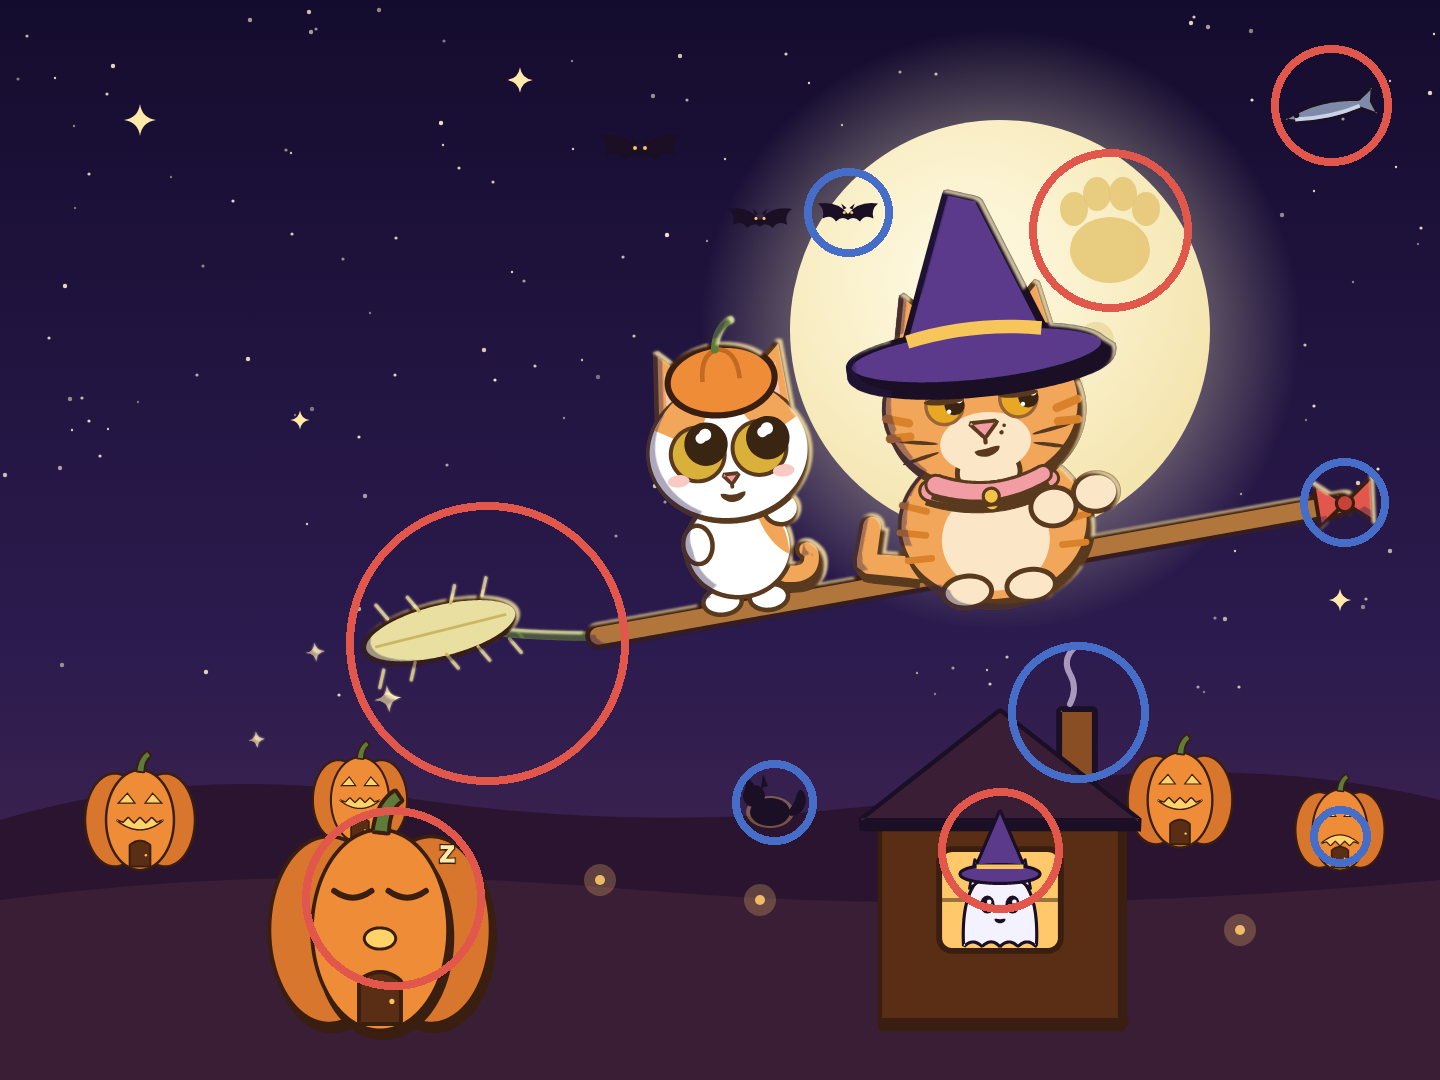
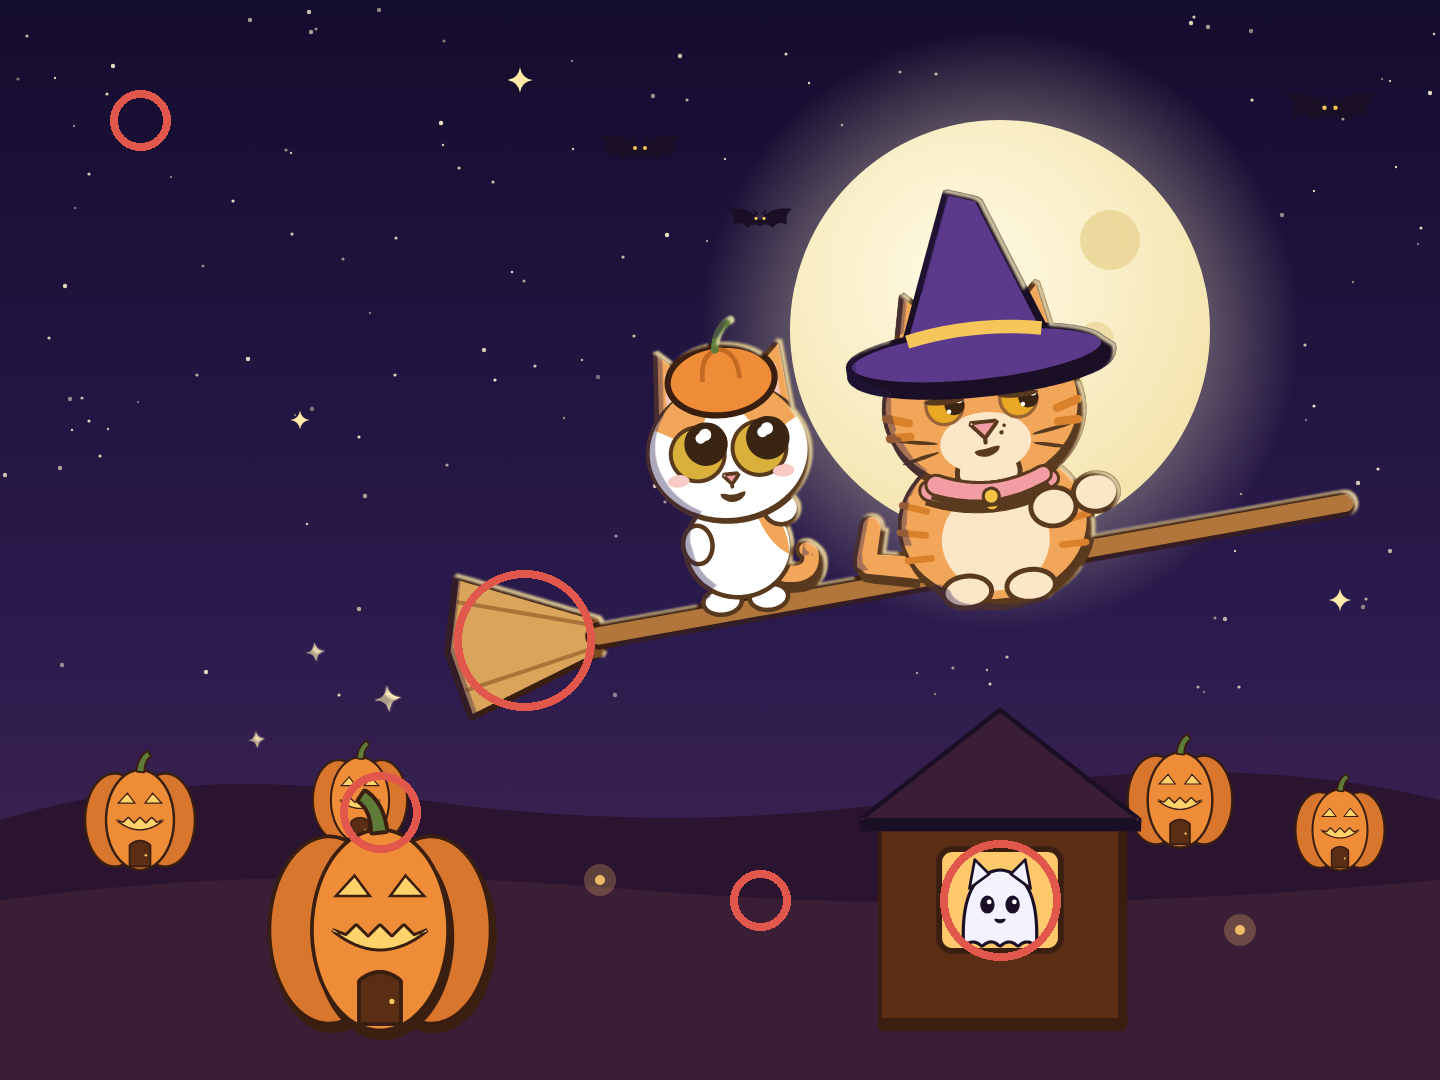
間違い探し：むずかしいモードは0/5からの別の問題・違いをむずかしく

diff --git a/machigai/index.html b/machigai/index.html
@@ -83,7 +83,7 @@ body.finished{overflow:auto!important}.finished .wrap{height:auto!important;min-
 <section class="selection" aria-label="問題を選ぶ"><label for="problemSelect">きょうの問題</label><select id="problemSelect"></select></section>
 <div class="scorebar"><div class="meter" id="clockBox"><small>のこりじかん</small><strong id="clock">60<em>秒</em></strong></div><div class="meter"><small>みつけた！</small><strong id="foundCount">0<em>/ 5</em></strong></div><button class="sound" id="soundToggle" type="button" aria-pressed="true">音：オン</button></div>
 <section class="intro" id="intro"><div><h2 id="introTitle">ちがいを見つけよう</h2><p id="introTime"></p><p>どちらの絵をタップしても大丈夫。<br>まちがえても、点数はへらないよ。<br>二本指で、絵を大きくできるよ。</p><p class="inapp-note" id="inappNote" hidden>アプリの中だと絵が小さくなります。右上の「…」から「ブラウザで開く」にすると、大きく遊べるよ。</p><label class="time-choice"><input id="untimedChoice" type="checkbox">時間を気にせず遊ぶ</label></div><button type="button" class="primary" id="startButton" disabled>絵をよみこみ中…</button></section>
-<section class="outcome" id="outcome" hidden aria-live="polite"><div class="result-art" id="resultArt" aria-hidden="true"><img id="resultImg" alt="" src="clear_dora.png"></div><div class="result-copy"><h2 id="resultTitle"></h2><p id="resultText"></p></div><div class="result-actions"><a class="secondary save-art" id="saveArt" href="uchu1-original.png" download="kagishippo_uchu.png">きれいな絵を保存</a><a class="secondary save-art" id="saveWall" href="uchu1-wallpaper.png" download="kagishippo_uchu_machiuke.png">待ち受け用を保存</a><button type="button" class="primary" id="hardButton" hidden>むずかしいモードへ（あと5か所）</button><button type="button" class="primary" id="retryButton">もう一回</button><button type="button" class="secondary" id="resultMenuButton">問題をえらぶ</button></div></section>
+<section class="outcome" id="outcome" hidden aria-live="polite"><div class="result-art" id="resultArt" aria-hidden="true"><img id="resultImg" alt="" src="clear_dora.png"></div><div class="result-copy"><h2 id="resultTitle"></h2><p id="resultText"></p></div><div class="result-actions"><a class="secondary save-art" id="saveArt" href="uchu1-original.png" download="kagishippo_uchu.png">きれいな絵を保存</a><a class="secondary save-art" id="saveWall" href="uchu1-wallpaper.png" download="kagishippo_uchu_machiuke.png">待ち受け用を保存</a><button type="button" class="primary" id="hardButton" hidden>むずかしいモードに挑戦（5か所）</button><button type="button" class="primary" id="retryButton">もう一回</button><button type="button" class="secondary" id="resultMenuButton">問題をえらぶ</button></div></section>
 <div class="midbar" id="midbar" aria-hidden="true"><button type="button" id="midMenu">≡ 問題</button><span class="pill" id="midClock"><small>のこり</small><b>120</b><small>秒</small></span><span class="pill" id="midCount"><small>みつけた</small><b>0</b><small>/ 5</small></span><button type="button" class="mid-hint" id="midHint">ヒント</button><button type="button" id="midSound">音</button></div><section class="pictures" aria-label="ふたつの絵を見くらべる"><div class="picture-card"><span class="picture-label">もとの絵</span><button class="scene inactive" type="button" id="originalBoard" aria-label="もとの絵。ちがうところをタップ"><img id="originalImage" alt="もとの絵" draggable="false"><svg id="originalMarks" viewBox="0 0 1440 1080" aria-hidden="true"></svg><svg id="originalFx" class="fx" viewBox="0 0 1440 1080" aria-hidden="true"></svg></button></div><div class="picture-card"><span class="picture-label">ちがう絵</span><button class="scene inactive" type="button" id="differentBoard" aria-label="ちがう絵。ちがうところをタップ"><img id="differentImage" alt="ちがう絵" draggable="false"><svg id="differentMarks" viewBox="0 0 1440 1080" aria-hidden="true"></svg><svg id="differentFx" class="fx" viewBox="0 0 1440 1080" aria-hidden="true"></svg></button></div></section>
 <div class="helpbar"><button class="secondary" id="menuButton" type="button">問題をえらぶ</button><p>あと少し、どこだろう？<br>ヒントは1回だけ使えるよ。</p><button class="secondary" id="hintButton" type="button" disabled>ヒントを見る</button></div>
 <p class="status" id="status" role="status" aria-live="polite">スタートを押すと、時計がうごき出すよ。</p>
@@ -153,38 +153,38 @@ body.finished{overflow:auto!important}.finished .wrap{height:auto!important;min-
         "answers": [
           {
             "id": "h1",
-            "x": 848.0,
-            "y": 212.0,
-            "r": 44,
-            "kind": "コウモリが、1匹ふえる"
+            "x": 140.0,
+            "y": 120.0,
+            "r": 30,
+            "kind": "左上のきらきら星が、ない"
           },
           {
             "id": "h2",
-            "x": 1078.0,
-            "y": 712.0,
-            "r": 70,
-            "kind": "家に、えんとつ"
+            "x": 380.0,
+            "y": 812.0,
+            "r": 40,
+            "kind": "手前のかぼちゃのへたが、逆向き"
           },
           {
             "id": "h3",
-            "x": 1344.0,
-            "y": 502.0,
-            "r": 44,
-            "kind": "ほうきの柄に、リボン"
+            "x": 524.0,
+            "y": 640.0,
+            "r": 70,
+            "kind": "ほうきの穂の線が、2本"
           },
           {
             "id": "h4",
-            "x": 774.0,
-            "y": 802.0,
-            "r": 42,
-            "kind": "丘に、黒猫のかげ"
+            "x": 760.0,
+            "y": 900.0,
+            "r": 30,
+            "kind": "道のまん中の灯りが、ない"
           },
           {
             "id": "h5",
-            "x": 1340.0,
-            "y": 836.0,
-            "r": 30,
-            "kind": "奥の家の口が、への字"
+            "x": 1000.0,
+            "y": 900.0,
+            "r": 60,
+            "kind": "おばけ猫の窓の横の桟が、ない"
           }
         ]
       }
@@ -255,31 +255,31 @@ body.finished{overflow:auto!important}.finished .wrap{height:auto!important;min-
           },
           {
             "id": "h2",
-            "x": 582.0,
-            "y": 974.0,
-            "r": 50,
-            "kind": "地球に、小さな島"
+            "x": 474.0,
+            "y": 996.0,
+            "r": 100,
+            "kind": "地球の雲の線が、みじかい"
           },
           {
             "id": "h3",
-            "x": 914.0,
-            "y": 684.0,
-            "r": 38,
-            "kind": "計器の画面の波が、ハートに"
+            "x": 464.0,
+            "y": 470.0,
+            "r": 30,
+            "kind": "左の桃色の灯りが、ない"
           },
           {
             "id": "h4",
-            "x": 1086.0,
-            "y": 150.0,
-            "r": 100,
-            "kind": "土星の輪のかたむきが、逆"
+            "x": 790.0,
+            "y": 680.0,
+            "r": 46,
+            "kind": "黄と桃のランプが、入れかわる"
           },
           {
             "id": "h5",
-            "x": 494.0,
-            "y": 636.0,
-            "r": 42,
-            "kind": "船の肉球のしるしが、魚に"
+            "x": 944.0,
+            "y": 384.0,
+            "r": 100,
+            "kind": "窓の右上のつやが、ない"
           }
         ]
       }
@@ -380,7 +380,7 @@ const ZoomRules=(()=>{
  function drawMarks(){for(const id of ['originalMarks','differentMarks']){const svg=$(id);svg.replaceChildren();if(!current||!state)continue;for(const a of current.answers){if(state.found.includes(a.id))circle(svg,a,'found-mark');else if(state.status==='timeout')circle(svg,a,'reveal-mark');else if(state.hintId===a.id&&state.status==='running')circle(svg,{...a,r:a.r*1.35},'hint-mark');}if(wrongMark&&wrongMark.svgId===id&&state.status==='running'){const node=document.createElementNS(NS,'text');node.setAttribute('x',wrongMark.x);node.setAttribute('y',wrongMark.y);node.setAttribute('text-anchor','middle');node.setAttribute('dominant-baseline','middle');node.setAttribute('class','wrong-mark');node.textContent='×';svg.appendChild(node);}}}
  function clearWords(p,sec){if(p.difficulty==='hard')return ['clear_dora.png','ドラ「…むずかしいのを、ぜんぶか。まいった」'];if(sec<=p.timeLimit/2)return ['clear_dora.png','ドラ「…はやい。スカウトしたい」'];return ['clear_tama.png','タマ「‥すごーい！ ぼくは寝てて、1つも見てない」'];}
  function render(){if(!current||!state)return;document.body.classList.toggle('game-active',state.status!=='ready');document.body.classList.toggle('playing',state.status==='running');document.body.classList.toggle('finished',['clear','timeout'].includes(state.status));const remaining=GameRules.remaining(current,state,now());ui.clock.replaceChildren(document.createTextNode(state.untimed?'∞':String(Math.ceil(remaining))));const seconds=document.createElement('em');seconds.textContent='秒';ui.clock.appendChild(seconds);ui.clockBox.classList.toggle('urgent',!state.untimed&&(state.status==='running'&&remaining<=10||state.status==='timeout'));ui.count.replaceChildren(document.createTextNode(String(state.found.length)));const total=document.createElement('em');total.textContent='/ '+current.answers.length;ui.count.appendChild(total);ui.intro.hidden=state.status!=='ready';ui.outcome.hidden=!['clear','timeout'].includes(state.status);ui.outcome.classList.toggle('timeout',state.status==='timeout');ui.hint.disabled=state.status!=='running'||state.hintUsed;ui.hint.textContent=state.hintUsed?'ヒントを使ったよ':'ヒントを見る';ui.start.disabled=!imagesReady||state.status!=='ready';ui.start.textContent=imagesReady?'スタート':'絵をよみこみ中…';$('introTitle').textContent='ちがいを '+current.answers.length+'つ、みつけよう';$('introTime').textContent=levelNames[current.difficulty]+' / '+(ui.untimed.checked?'時間制限なし':current.timeLimit+'秒');for(const id of ['originalBoard','differentBoard'])$(id).classList.toggle('inactive',state.status!=='running');
-  if(state.status==='clear'){const sec=(state.endedAt-state.startedAt)/1000,c=clearWords(current,sec);$('resultTitle').textContent='ぜんぶ、みつけた！ '+sec.toFixed(1)+'秒';$('resultText').textContent=c[1];$('resultImg').src=c[0];$('resultArt').hidden=false;}else if(state.status==='timeout'){$('resultTitle').textContent='じかんになったよ';$('resultText').textContent='光っているところが、のこりの答えだよ。';$('resultImg').src='timeout_tama.png';$('resultArt').hidden=false;}const hb=$('hardButton');if(hb){const ok=state.status==='clear'&&!current.isHard&&current.hard;hb.hidden=!ok;if(ok)hb.textContent='むずかしいモードへ（あと'+current.hard.answers.length+'か所）';$('retryButton').className=ok?'secondary':'primary';}drawMarks();}
+  if(state.status==='clear'){const sec=(state.endedAt-state.startedAt)/1000,c=clearWords(current,sec);$('resultTitle').textContent='ぜんぶ、みつけた！ '+sec.toFixed(1)+'秒';$('resultText').textContent=c[1];$('resultImg').src=c[0];$('resultArt').hidden=false;}else if(state.status==='timeout'){$('resultTitle').textContent='じかんになったよ';$('resultText').textContent='光っているところが、のこりの答えだよ。';$('resultImg').src='timeout_tama.png';$('resultArt').hidden=false;}const hb=$('hardButton');if(hb){const ok=state.status==='clear'&&!current.isHard&&current.hard;hb.hidden=!ok;if(ok)hb.textContent='むずかしいモードに挑戦（'+current.hard.answers.length+'か所）';$('retryButton').className=ok?'secondary':'primary';}drawMarks();}
  function tick(){if(!state||state.status!=='running')return;const previous=state.status;state=GameRules.advance(current,state,now());if(state.status==='timeout'){stopClock();stopSounds();clearEffects();setStatus('じかん切れ。光っているところを見てみよう。');render();return;}const left=Math.ceil(GameRules.remaining(current,state,now()));if(left<=10&&left>0&&left!==lastBeat){lastBeat=left;heartbeat();}render();}
  function begin(prefound){if(!imagesReady||!current)return;cleanup();state=GameRules.begin(GameRules.createState(current,ui.untimed.checked),now());if(Array.isArray(prefound))state={...state,found:[...prefound]};audioReady();setStatus('ちがうところを、どちらかの絵でタップしてね。');interval=setInterval(tick,100);render();}
  function boardTap(event,imageId){if(!current||!state||event.detail===0||Date.now()<suppressTapUntil)return;const board=$(imageId==='originalImage'?'originalBoard':'differentBoard');const screenPoint=GameRules.pointAt(event.clientX,event.clientY,board.getBoundingClientRect());const point=screenPoint&&ZoomRules.point(screenPoint,zoom.scale,zoom.panX,zoom.panY);if(!point)return;const result=GameRules.tap(current,state,point.x,point.y,now()),previous=state.status;state=result.state;if(result.type==='found'){stopSounds();joy(current.answers.find(a=>a.id===state.found[state.found.length-1]),state.found.length,current.answers.length,state.status==='clear');wrongMark=null;if(state.status==='clear'){stopClock();clearEffects();setStatus('ぜんぶ見つけたね！');}else setStatus('みつけた！ あと'+(current.answers.length-state.found.length)+'つ。');}
@@ -389,7 +389,7 @@ const ZoomRules=(()=>{
  function choose(id,derived,onReady){const p=derived||problems.find(p=>p.id===id);if(!p)return;cleanup();const version=++loadVersion;current=p;state=GameRules.createState(p,ui.untimed.checked);imagesReady=false;resetZoom();ui.select.value=p.baseId||p.id;for(const b of ui.grid.querySelectorAll('button'))b.setAttribute('aria-current',String(b.dataset.id===(p.baseId||p.id)));setStatus('スタートを押すと、時計がうごき出すよ。');let loaded=0;
   for(const [imageId,name] of [['originalImage',p.original],['differentImage',p.different]]){const image=$(imageId);image.onload=()=>{if(version!==loadVersion)return;if(image.naturalWidth!==IW||image.naturalHeight!==IH){setStatus('絵の大きさが合っていないので、この問題はお休みです。',true);return;}loaded++;if(loaded===2){imagesReady=true;render();if(onReady)onReady();}};image.onerror=()=>{if(version!==loadVersion)return;imagesReady=false;ui.start.disabled=true;ui.start.textContent='絵が見つかりません';setStatus('絵が見つかりません。ページと同じ場所に絵があるか、確かめてね。',true);};image.src=encodeURIComponent(name);}render();}
  function rebuild(){ui.select.replaceChildren();ui.grid.replaceChildren();for(const p of problems){const option=document.createElement('option');option.value=p.id;option.textContent=p.title+' · '+levelNames[p.difficulty];ui.select.appendChild(option);const button=document.createElement('button');button.type='button';button.className='problem-button';button.dataset.id=p.id;const title=document.createElement('span');title.textContent=p.title;const note=document.createElement('small');note.textContent=levelNames[p.difficulty]+' / '+p.answers.length+'つ / '+p.timeLimit+'秒';button.append(title,note);button.addEventListener('click',()=>{choose(p.id);$('problemList').open=false;ui.start.focus({preventScroll:true});});ui.grid.appendChild(button);}$('problemTotal').textContent='（'+problems.length+'問）';}
- function startHard(){const base=problems.find(p=>p.id===(current&&(current.baseId||current.id)));if(!base||!base.hard)return;const derived={...base,id:base.id+'-hard',baseId:base.id,isHard:true,difficulty:'hard',timeLimit:GameRules.LIMITS.hard,different:base.hard.different,answerImage:base.hard.answerImage,answers:[...base.answers,...base.hard.answers]};const pre=base.answers.map(a=>a.id);choose(null,derived,()=>{begin(pre);setStatus('むずかしいモード：あと'+base.hard.answers.length+'つ。小さいちがいもあるよ。');});}
+ function startHard(){const base=problems.find(p=>p.id===(current&&(current.baseId||current.id)));if(!base||!base.hard)return;/* 10/24 夜 遊んだ人2人「簡単すぎる・ふつうとの差が分からない」→ むずかしいは 0/5 から始まる 別の 問題（元の絵と、むずかしい5か所だけ ちがう絵） */const derived={...base,id:base.id+'-hard',baseId:base.id,isHard:true,difficulty:'hard',timeLimit:GameRules.LIMITS.hard,different:base.hard.different,answerImage:base.hard.answerImage,answers:[...base.hard.answers]};choose(null,derived,()=>{begin();setStatus('むずかしいモード：ちがいは '+base.hard.answers.length+'つ。さっきとは べつの ところだよ。');});}
  function menu(){if(!current)return;/* 10/24 マムさんの331：とちゅうで押すと、確かめずに0/5へもどっていた */if(state&&state.status==='running'&&state.found.length>0&&!confirm('問題をえらびなおすと、見つけた数は0にもどります。えらびなおしますか？'))return;cleanup();state=GameRules.createState(current,ui.untimed.checked);resetZoom();setStatus('好きな問題を選んで、スタートしてね。');render();ui.select.focus({preventScroll:true});}$('menuButton').addEventListener('click',menu);$('resultMenuButton').addEventListener('click',menu);
  ui.untimed.addEventListener('change',()=>{if(state&&state.status==='ready'){state=GameRules.createState(current,ui.untimed.checked);render();}});ui.start.addEventListener('click',()=>{if(state&&state.status==='ready')begin();});$('retryButton').addEventListener('click',()=>{if(current&&current.isHard)startHard();else begin();});$('hardButton').addEventListener('click',startHard);ui.select.addEventListener('change',()=>choose(ui.select.value));ui.hint.addEventListener('click',()=>{if(!current||!state)return;const old=state;state=GameRules.hint(current,state,now());if(state.hintUsed&&!old.hintUsed)setStatus('うっすら光っているあたりを、よく見てね。');if(state.status==='timeout'){stopClock();stopSounds();setStatus('じかん切れ。光っているところを見てみよう。');}render();});ui.sound.addEventListener('click',()=>{soundOn=!soundOn;ui.sound.textContent='音：'+(soundOn?'オン':'オフ');ui.sound.setAttribute('aria-pressed',String(soundOn));if(soundOn)audioReady();else stopSounds();});$('originalBoard').addEventListener('click',e=>boardTap(e,'originalImage'));$('differentBoard').addEventListener('click',e=>boardTap(e,'differentImage'));for(const id of ['originalBoard','differentBoard'])attachZoom($(id));window.addEventListener('resize',applyZoom);
  $('problemFiles').addEventListener('change',async event=>{const version=loadVersion;try{const files=[...event.target.files];if(!files.length)return;const additions=[];for(const file of files){if(file.size>2_000_000)throw new Error('問題ファイルが大きすぎます。');additions.push(...GameRules.unpack(JSON.parse(await file.text())));}const map=new Map(problems.map(p=>[p.id,p]));for(const p of additions)map.set(p.id,p);problems=[...map.values()];rebuild();choose(additions[0].id);$('loadMessage').textContent=additions.length+'問を追加したよ。';}catch(error){$('loadMessage').textContent=error.message||'問題が読み取れませんでした。';}});
